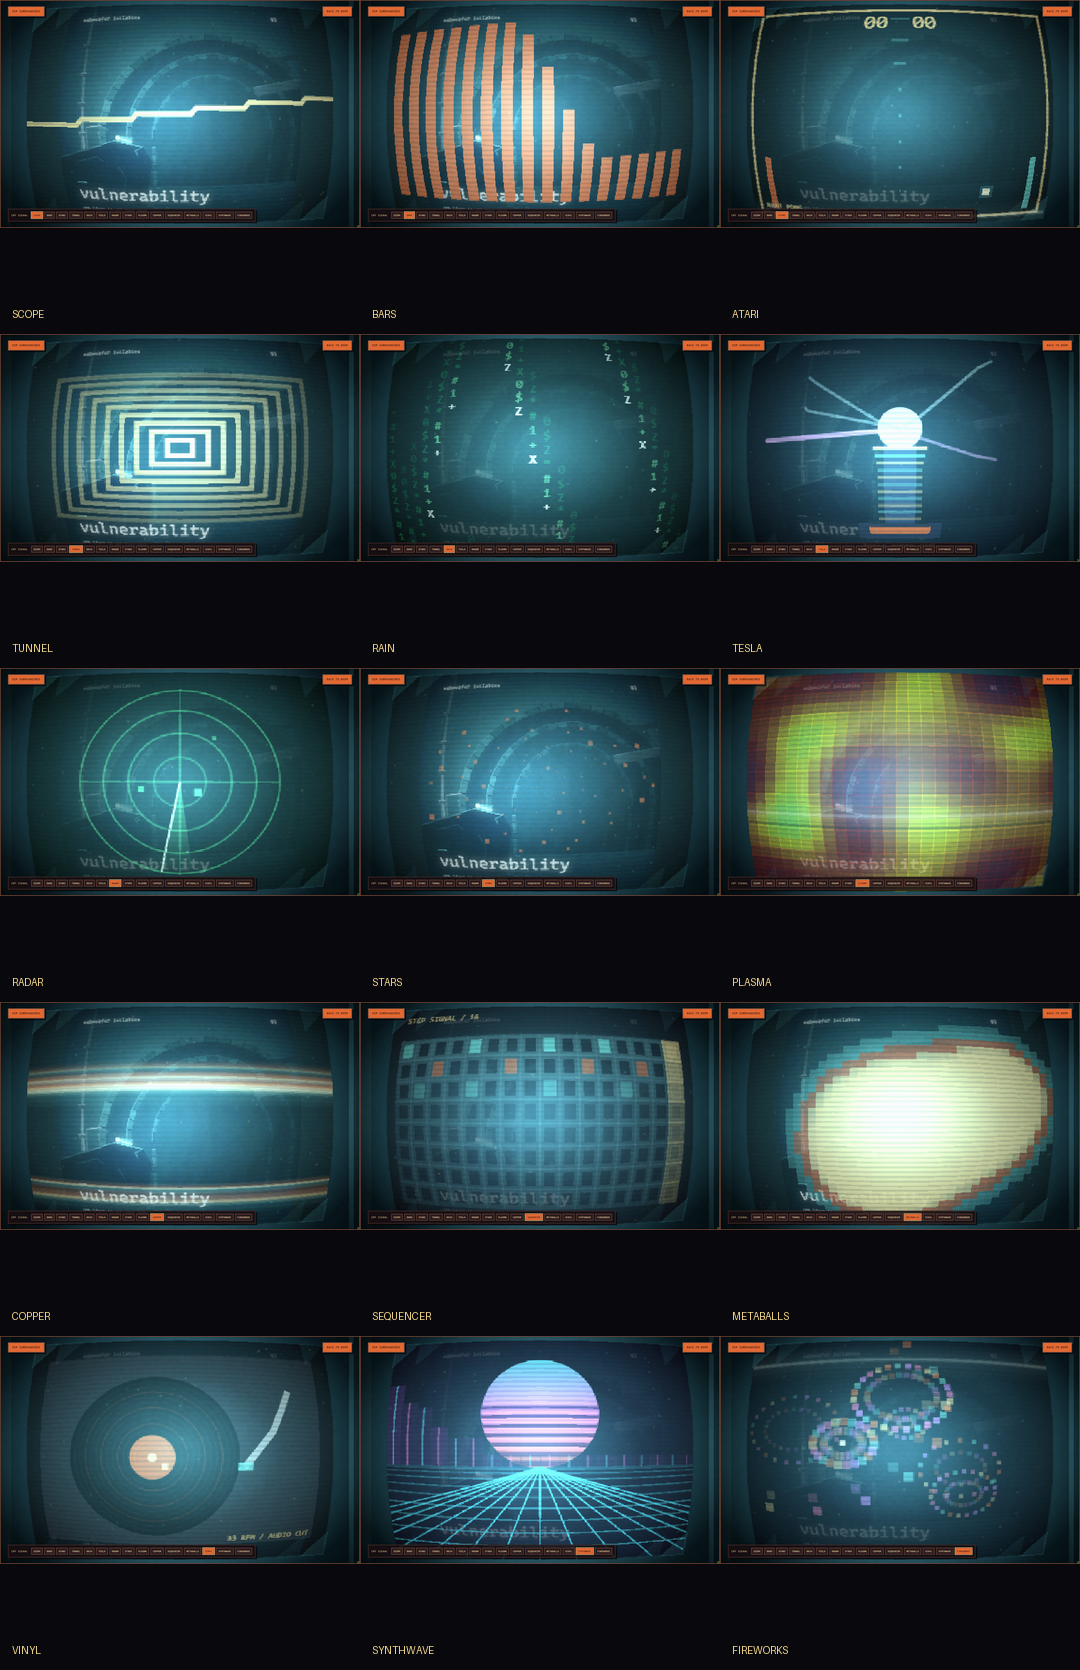
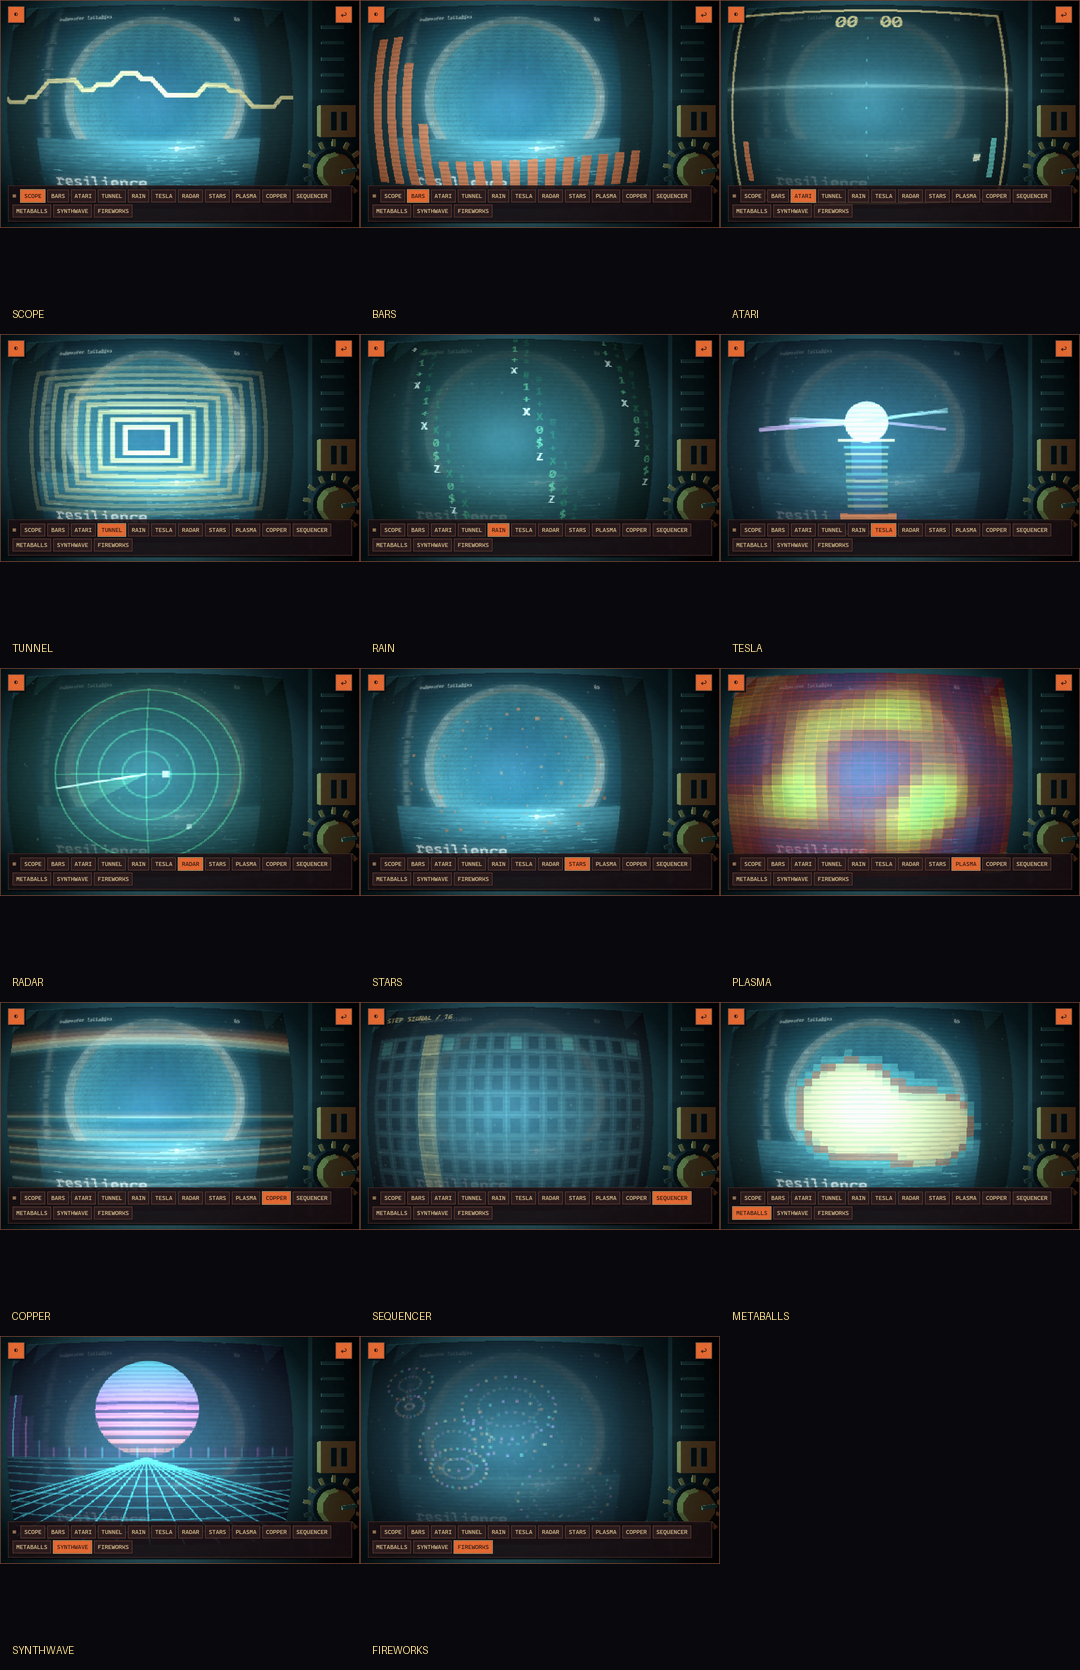
Remove Vinyl CRT visualizer
Copilot-Session: 3bd1eee1-6bd2-4cb0-9744-04fcd8d3bd40

diff --git a/site/src/three-scenes.ts b/site/src/three-scenes.ts
@@ -31,7 +31,6 @@ export type VisualizerMode =
   | 'copper'
   | 'sequencer'
   | 'metaballs'
-  | 'vinyl'
   | 'synthwave'
   | 'fireworks';
 
@@ -1998,61 +1997,6 @@ export function createBoxScene(
           }
         }
         crtContext.globalAlpha = 1;
-      } else if (visualizerMode === 'vinyl') {
-        crtContext.save();
-        crtContext.fillStyle = 'rgba(7,8,12,.68)';
-        crtContext.fillRect(0, 0, width, height);
-        const platterX = width * 0.42;
-        const platterY = height * 0.53;
-        const platterRadius = Math.min(width, height) * 0.34;
-        crtContext.fillStyle = '#20242a';
-        crtContext.fillRect(18, 20, width - 36, height - 40);
-        crtContext.fillStyle = '#050708';
-        crtContext.beginPath();
-        crtContext.arc(platterX, platterY, platterRadius, 0, Math.PI * 2);
-        crtContext.fill();
-        for (let groove = 1; groove <= 14; groove++) {
-          const grooveEnergy = sensitiveBand((groove - 1) / 14, groove / 14, 2);
-          crtContext.strokeStyle = groove % 3 ? '#243e43' : '#e66a32';
-          crtContext.globalAlpha = 0.18 + grooveEnergy * 0.3;
-          crtContext.lineWidth = 1 + grooveEnergy;
-          crtContext.beginPath();
-          crtContext.arc(platterX, platterY, platterRadius * groove / 15, 0, Math.PI * 2);
-          crtContext.stroke();
-        }
-        const labelRadius = platterRadius * (0.25 + bass * 0.035);
-        crtContext.fillStyle = '#e66a32';
-        crtContext.globalAlpha = 0.8;
-        crtContext.beginPath();
-        crtContext.arc(platterX, platterY, labelRadius, 0, Math.PI * 2);
-        crtContext.fill();
-        crtContext.fillStyle = '#f4d789';
-        crtContext.beginPath();
-        crtContext.arc(platterX, platterY, 4 + beat * 5, 0, Math.PI * 2);
-        crtContext.fill();
-        const markerAngle = time * (1.25 + smoothedEnergy * 1.2);
-        crtContext.fillRect(
-          platterX + Math.cos(markerAngle) * labelRadius * 0.68 - 3,
-          platterY + Math.sin(markerAngle) * labelRadius * 0.68 - 3,
-          6,
-          6,
-        );
-        crtContext.strokeStyle = '#c8d7d3';
-        crtContext.lineWidth = 7;
-        crtContext.globalAlpha = 0.82;
-        crtContext.beginPath();
-        crtContext.moveTo(width * 0.84, height * 0.24);
-        crtContext.lineTo(width * 0.78, height * 0.42);
-        crtContext.lineTo(width * 0.69, height * (0.57 + mid * 0.06));
-        crtContext.stroke();
-        crtContext.fillStyle = '#64c9bd';
-        crtContext.fillRect(width * 0.67, height * (0.55 + mid * 0.06), 15, 8);
-        crtContext.fillStyle = '#f4d789';
-        crtContext.font = '700 9px monospace';
-        crtContext.textAlign = 'right';
-        crtContext.fillText('33 RPM / AUDIO CUT', width - 22, height - 24);
-        crtContext.globalAlpha = 1;
-        crtContext.restore();
       } else if (visualizerMode === 'synthwave') {
         crtContext.save();
         crtContext.fillStyle = 'rgba(12,3,30,.7)';

diff --git a/site/src/main.ts b/site/src/main.ts
@@ -151,7 +151,6 @@ app.innerHTML = `
         <button type="button" data-visualizer="copper" disabled>copper</button>
         <button type="button" data-visualizer="sequencer" disabled>sequencer</button>
         <button type="button" data-visualizer="metaballs" disabled>metaballs</button>
-        <button type="button" data-visualizer="vinyl" disabled>vinyl</button>
         <button type="button" data-visualizer="synthwave" disabled>synthwave</button>
         <button type="button" data-visualizer="fireworks" disabled>fireworks</button>
       </div>
@@ -968,7 +967,6 @@ async function start() {
     'copper',
     'sequencer',
     'metaballs',
-    'vinyl',
     'synthwave',
     'fireworks',
   ];

diff --git a/docs/website.md b/docs/website.md
@@ -166,15 +166,14 @@ adaptive waveform gain keep quieter recordings visibly responsive.
 | `copper` | Moving horizontal raster/copper bands |
 | `sequencer` | Scanning hardware step grid with frequency-driven pads |
 | `metaballs` | Audio-sized chunky scalar-field blobs |
-| `vinyl` | Reactive turntable platter, grooves, label and tonearm |
 | `synthwave` | Neon sunset, skyline and perspective grid |
 | `fireworks` | Pixel particle bursts with band-driven radius and brightness |
 
 ![Contact sheet showing the CRT signal modes over the same playing cover.](assets/crt-signals-contact-sheet.png)
 
 *The common cover and camera framing make the visual differences explicit. The
-fifteen-mode library deliberately separates oscilloscope, spectrum, game, Matrix,
-electrical, radar, starfield, demoscene, hardware, physical-media, synthwave and
+fourteen-mode library deliberately separates oscilloscope, spectrum, game, Matrix,
+electrical, radar, starfield, demoscene, hardware, synthwave and
 particle families instead of retaining near-duplicate effects.*
 
 An intermittent phosphor scan band also crosses the complete television image from
